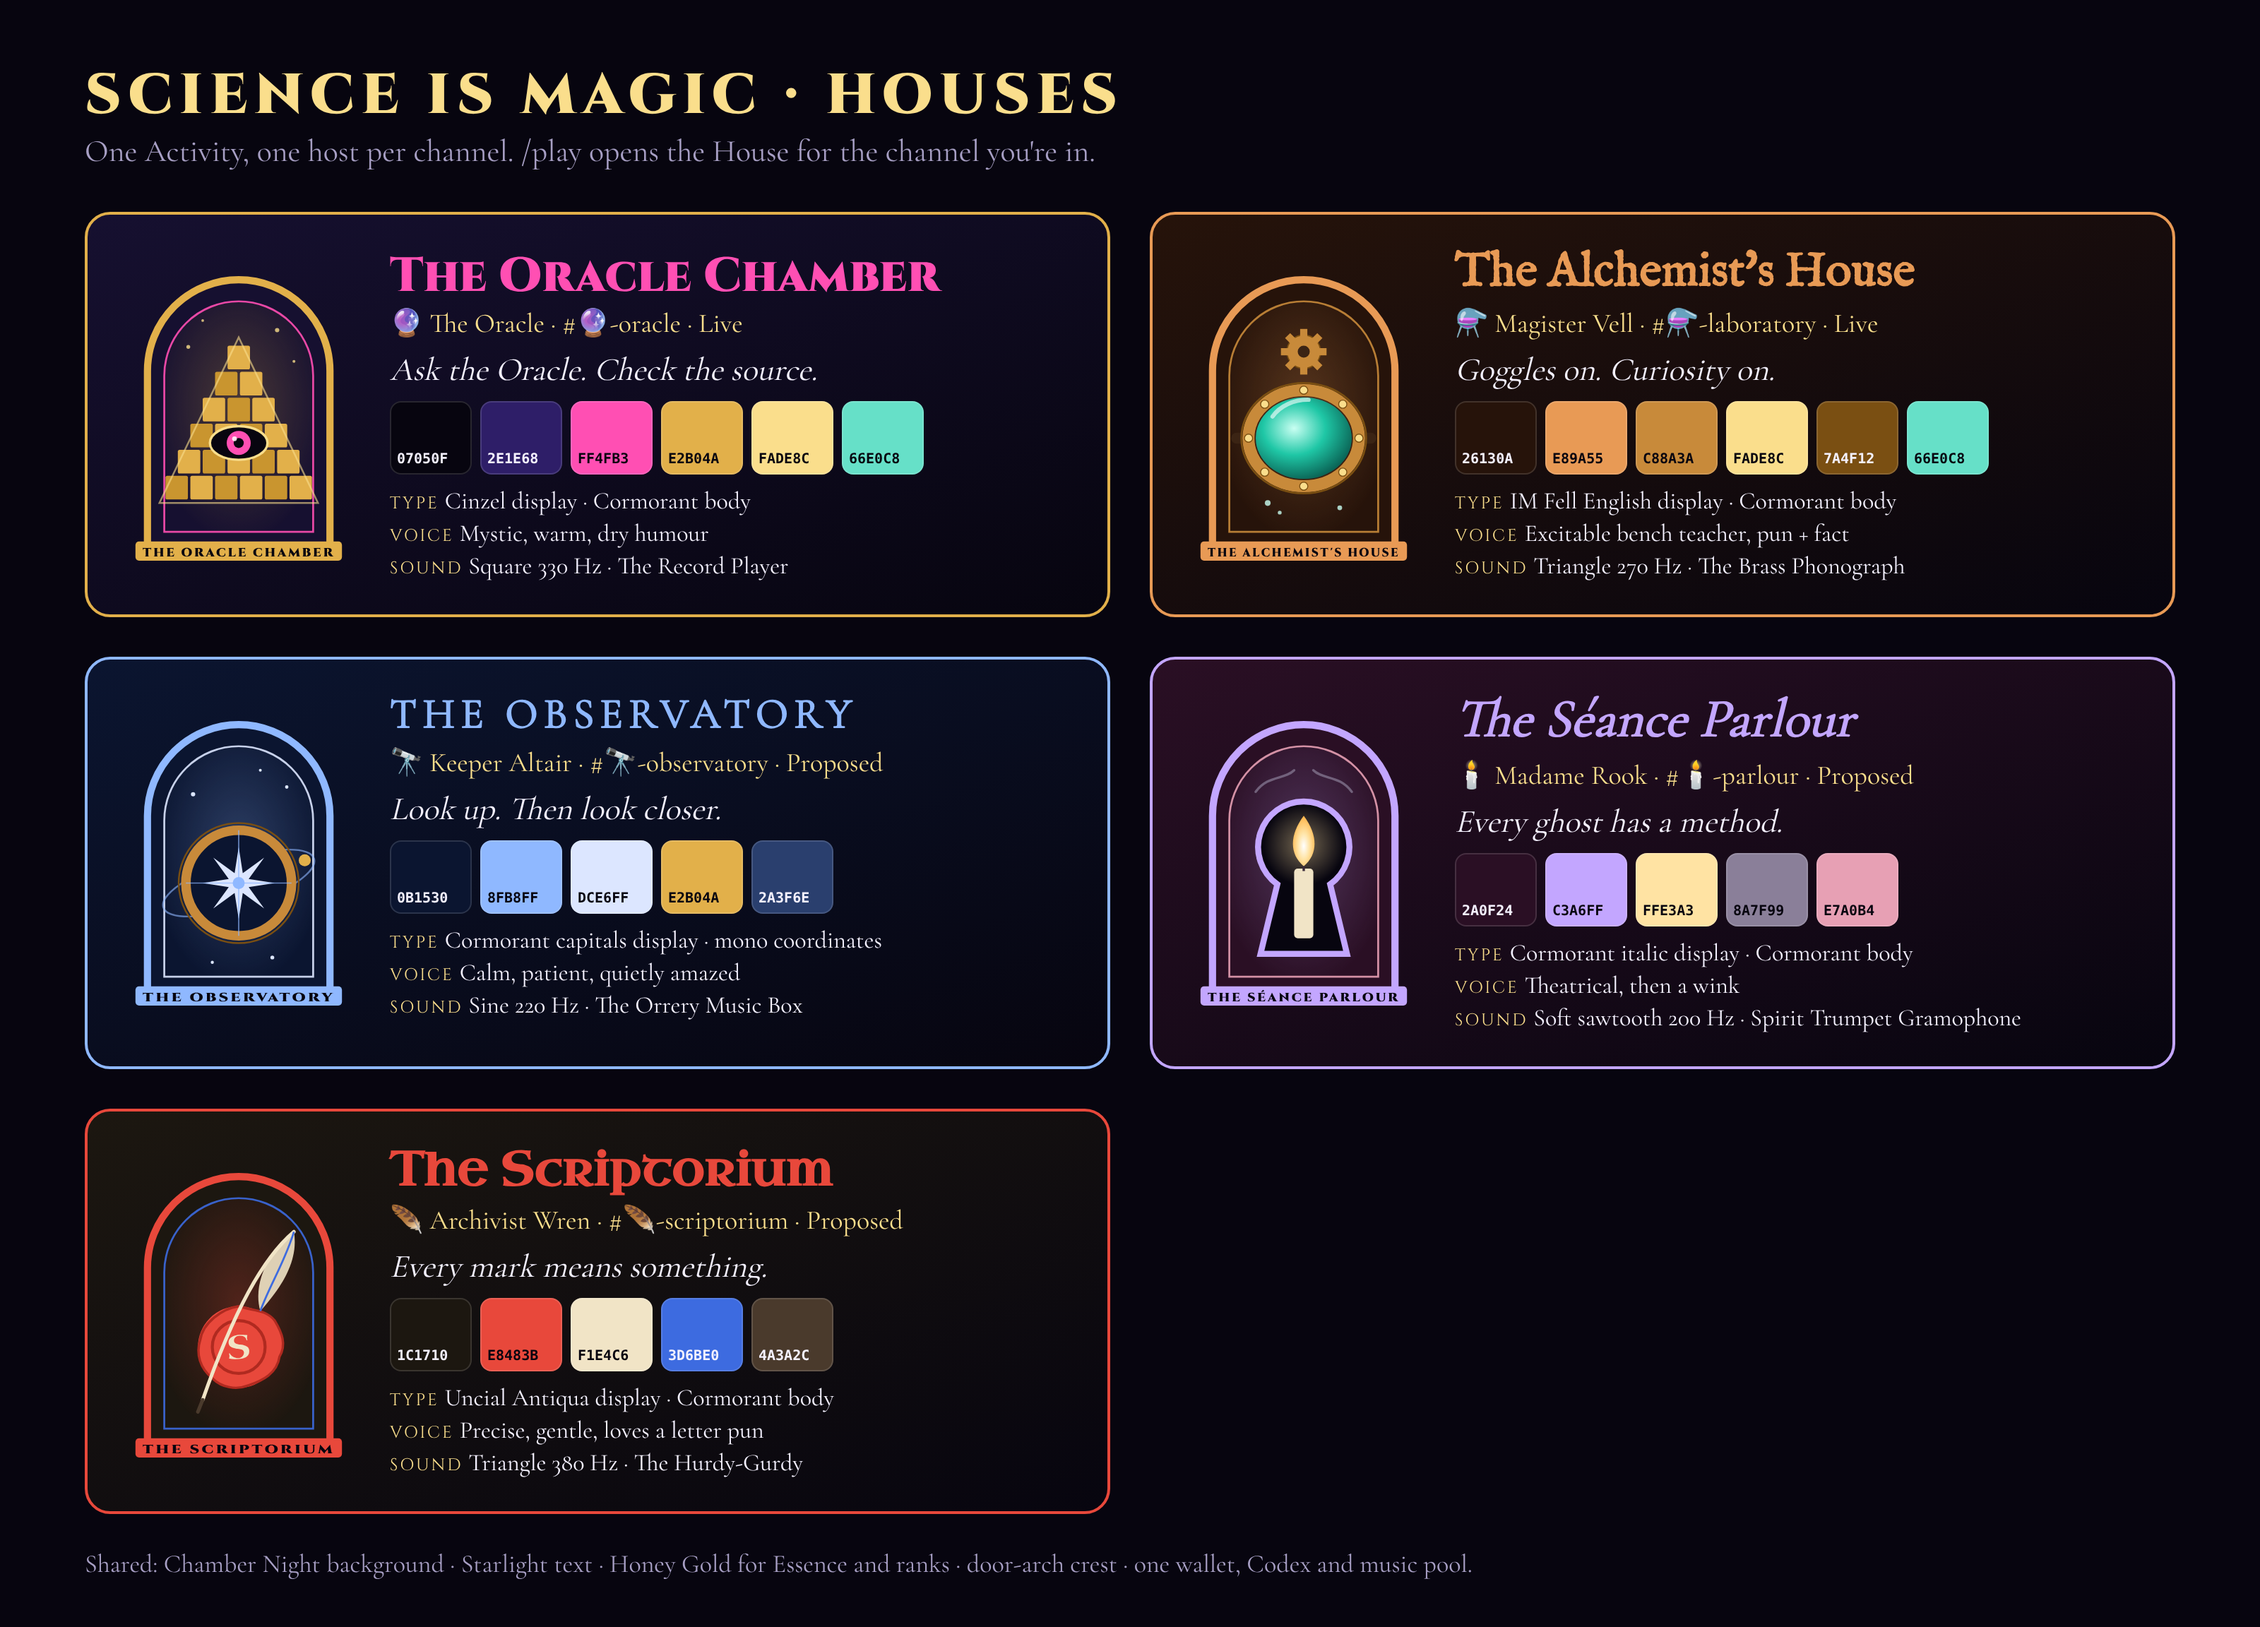
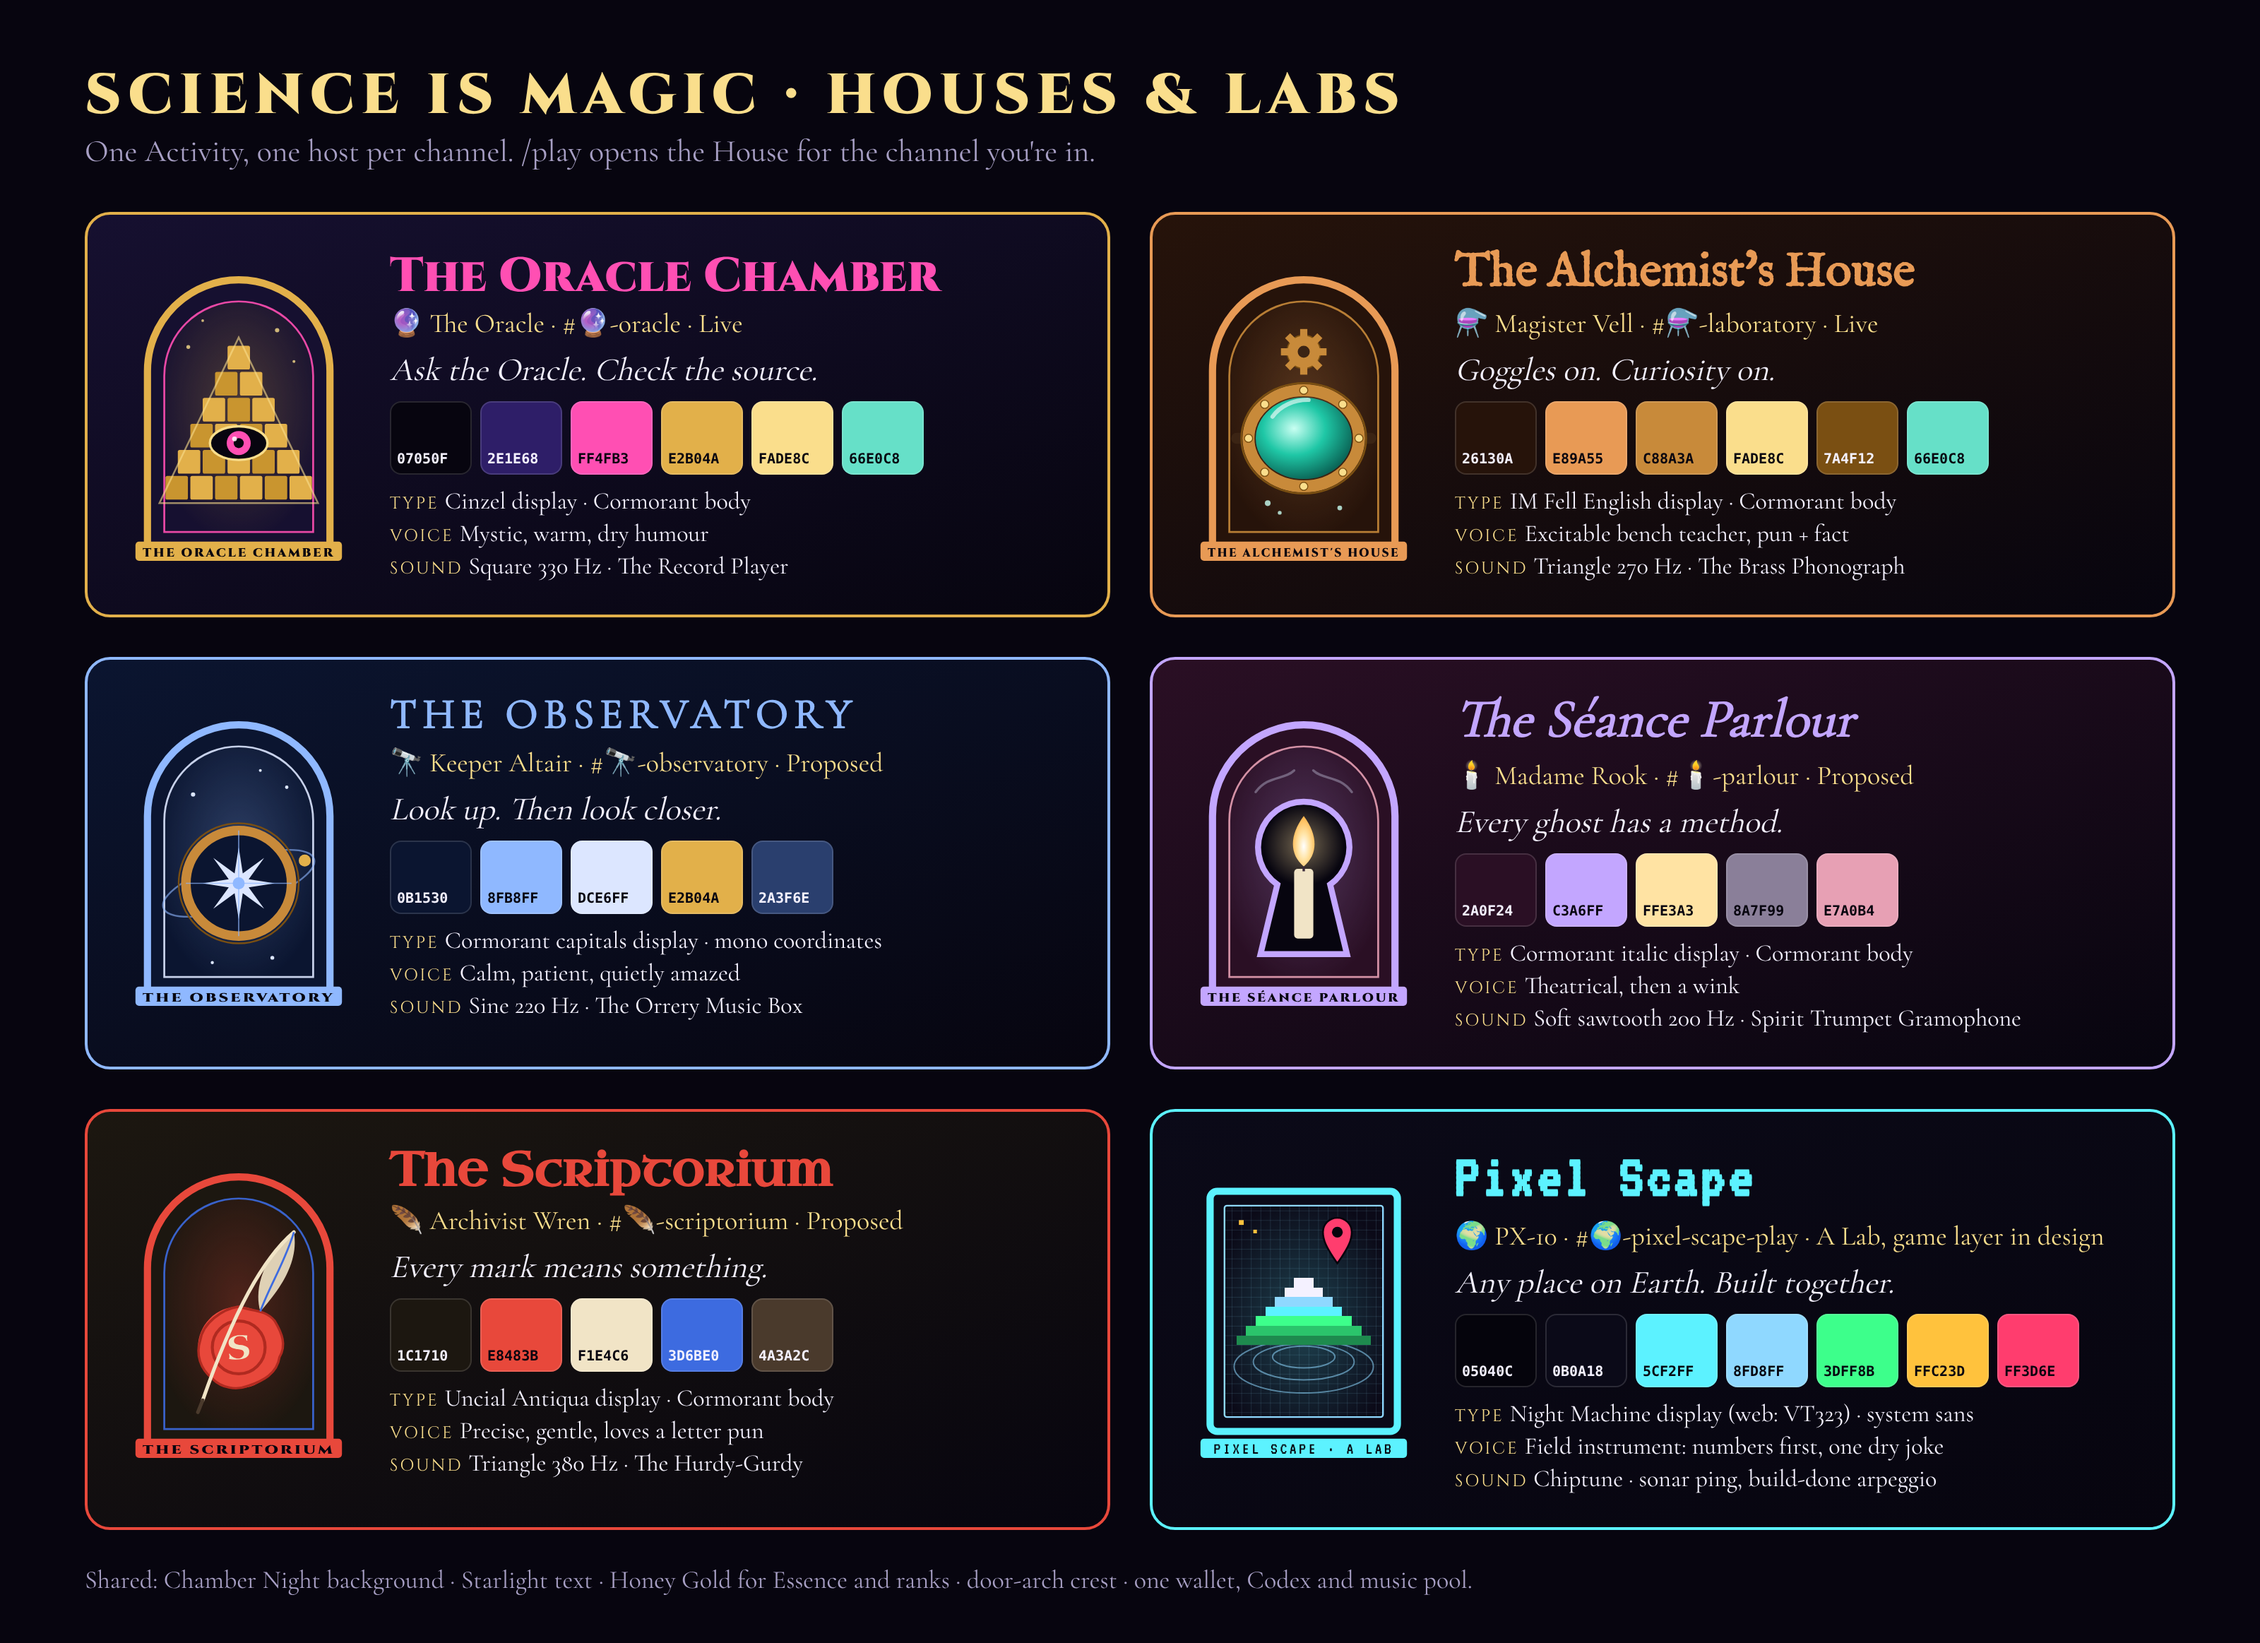
Brand: Pixel Scape as a Science is Magic Lab, with its game language
Claude-Session: https://claude.ai/code/session_01QfSdVfeK9gYtFgZNJEKaZm

diff --git a/apps/oracle-discord/brand/houses/README.md b/apps/oracle-discord/brand/houses/README.md
@@ -56,3 +56,30 @@ All display faces are already bundled in `activity/src/fonts/` or `assets/`. Lea
 - **Visual:** vellum pages, red initials, gold leaf on one letter, quills, wax seals, ruled lines. Emblem: crossed quill over a wax seal.
 - **Sound:** quill scratch, page turn, wax-seal thump, small bell on a match; sting: quill scratch, then the seal.
 - **Shelf:** inks and pigments, one real fact each. Free starter: iron-gall ink; then vermilion, ultramarine, malachite green, orpiment yellow, Tyrian purple.
+
+## Pixel Scape: a Science is Magic Lab (not a House)
+
+Pixel Scape (`apps/pixel-scape-discord`, `apps/worlds-brew-app`) is branded the same way, but as a Lab: a place to build, not a House to visit. Its crest is a square map tile (`crests/pixel-scape-crest.svg`) instead of the door arch. Values are under `labs.pixel-scape` in `house-tokens.json`.
+
+- **Host:** PX-10, a small survey drone named after the app code. Voice of the bot, start screen and tips.
+- **Positioning line:** Build any real place on Earth in 3D, together, from real elevation and satellite data.
+- **Tagline:** Any place on Earth. Built together.
+- **Voice:** a field instrument. Numbers first ("10.0 × 10.0 km, 1,135 to 3,753 m, built in 14 s"), always credit the data, invite people in ("Three builders in the room. Tap a name to follow."), one dry joke per finished build ("Survey complete. No mountains were harmed."), never a joke on a failure.
+- **Colours (Night Arcade, already in the Lab Suite):** Void `#05040C`, Panel `#0B0A18`, accent Press Cyan `#5CF2FF`, Glow Ice `#8FD8FF`, success and points Ready Green `#3DFF8B`, in progress Busy Amber `#FFC23D`, error and sealed Alert Rose `#FF3D6E`.
+- **Type:** Night Machine for display and labels (installed, not bundled); web and Discord fallback VT323. System sans for body, monospace for stats.
+- **Visual:** pixel grid over contour lines, satellite tiles, scanlines, LED status lights, before/after renders. Emoji 🌍 (🗺 for builds).
+- **Sound:** chiptune. Sonar ping for pings and "survey started", LED click on buttons, four-note rising arpeggio on build done, short fanfare on a badge.
+
+### Game language (for the gamification design)
+
+Pixel Scape points feed the Scholar's Path, so it has titles and badges, not a second rank ladder.
+
+| Element | Brand name | Notes |
+|---|---|---|
+| Weekly theme (`web/theme.js`) | The Weekly Build | Already in posted render captions |
+| Real-place challenge | Expedition | A named real place to build and explore |
+| Shared room | Survey Party | Up to 8 builders |
+| Posted render | Field Report | 5 pts in #🖼-showcase, +10 if a Hierophant picks it |
+| Remix | Remix | Already built |
+| Builder titles | Scout → Surveyor → Cartographer → Worldwright | Shown in the Activity only |
+| Badges | Summit (place over 3,000 m), Coastline, Home Town, First Remix, Full Party (8 builders) | One-time sigils |
